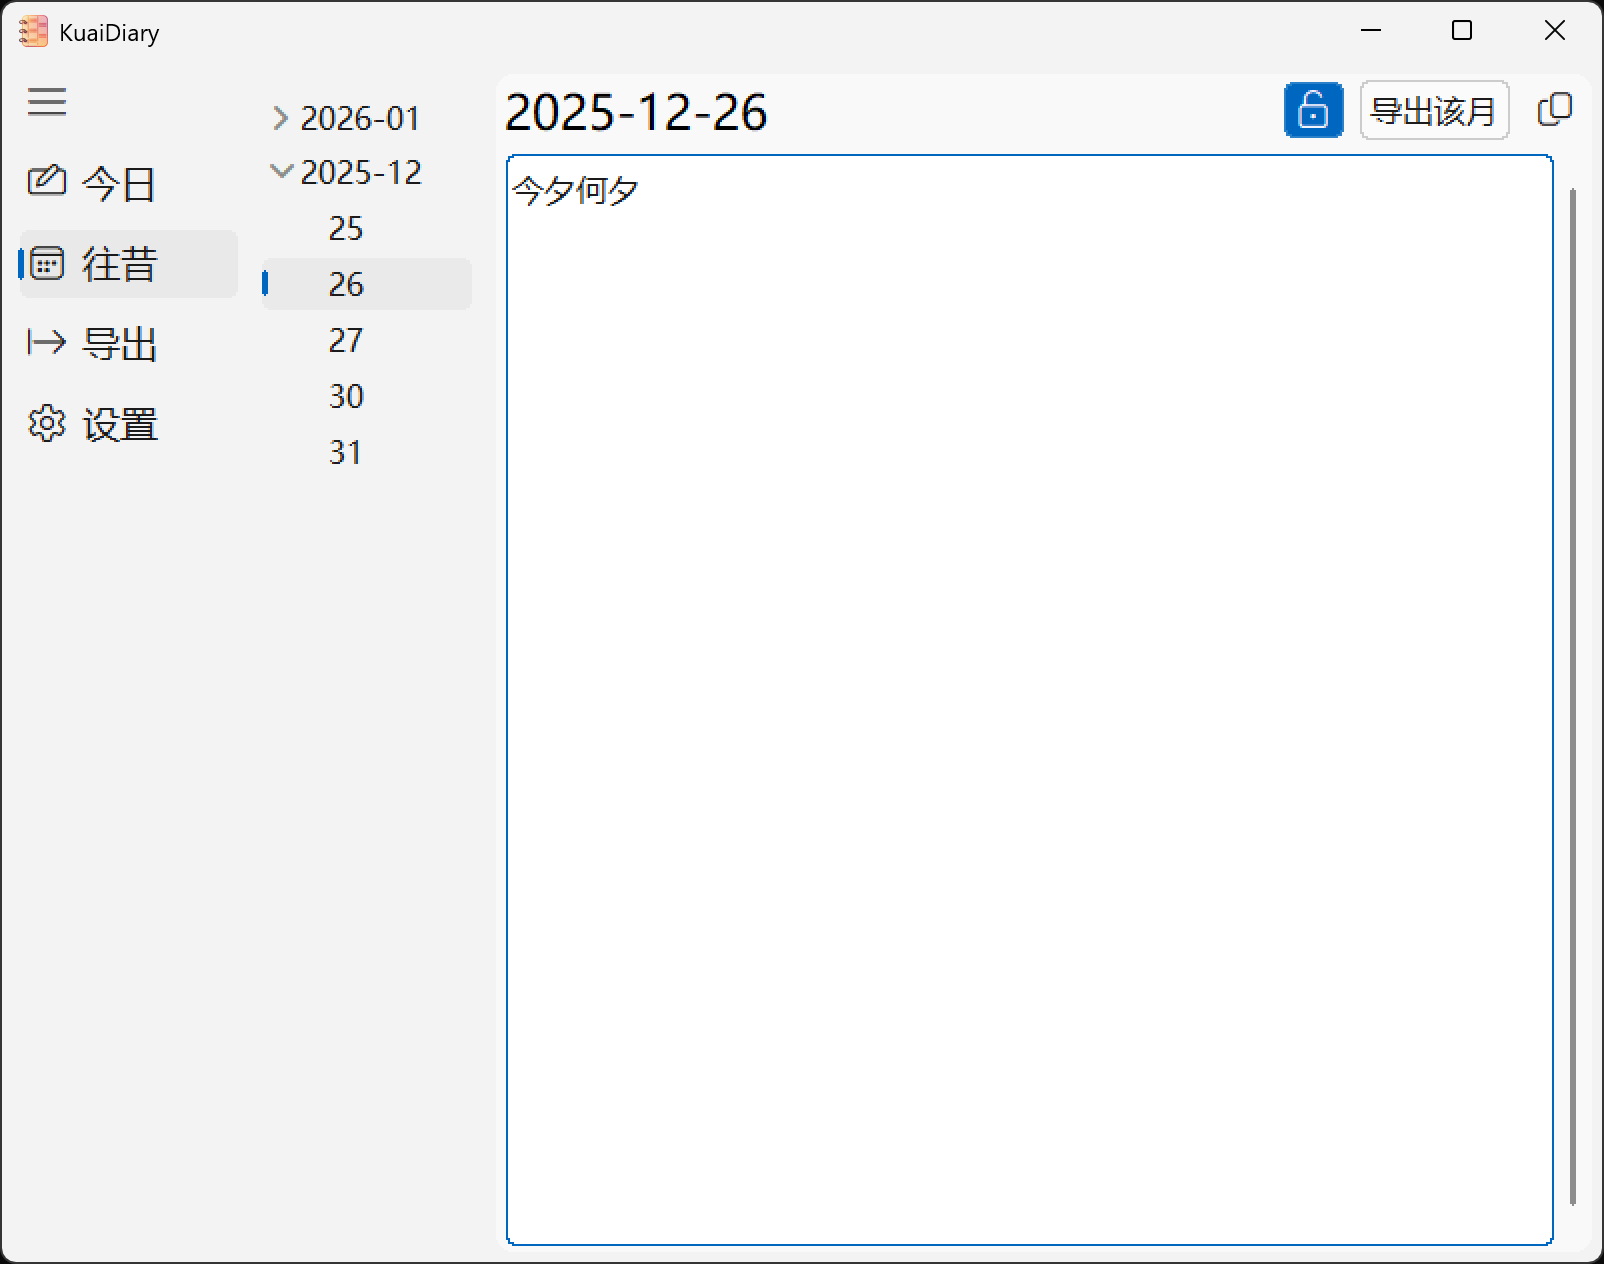
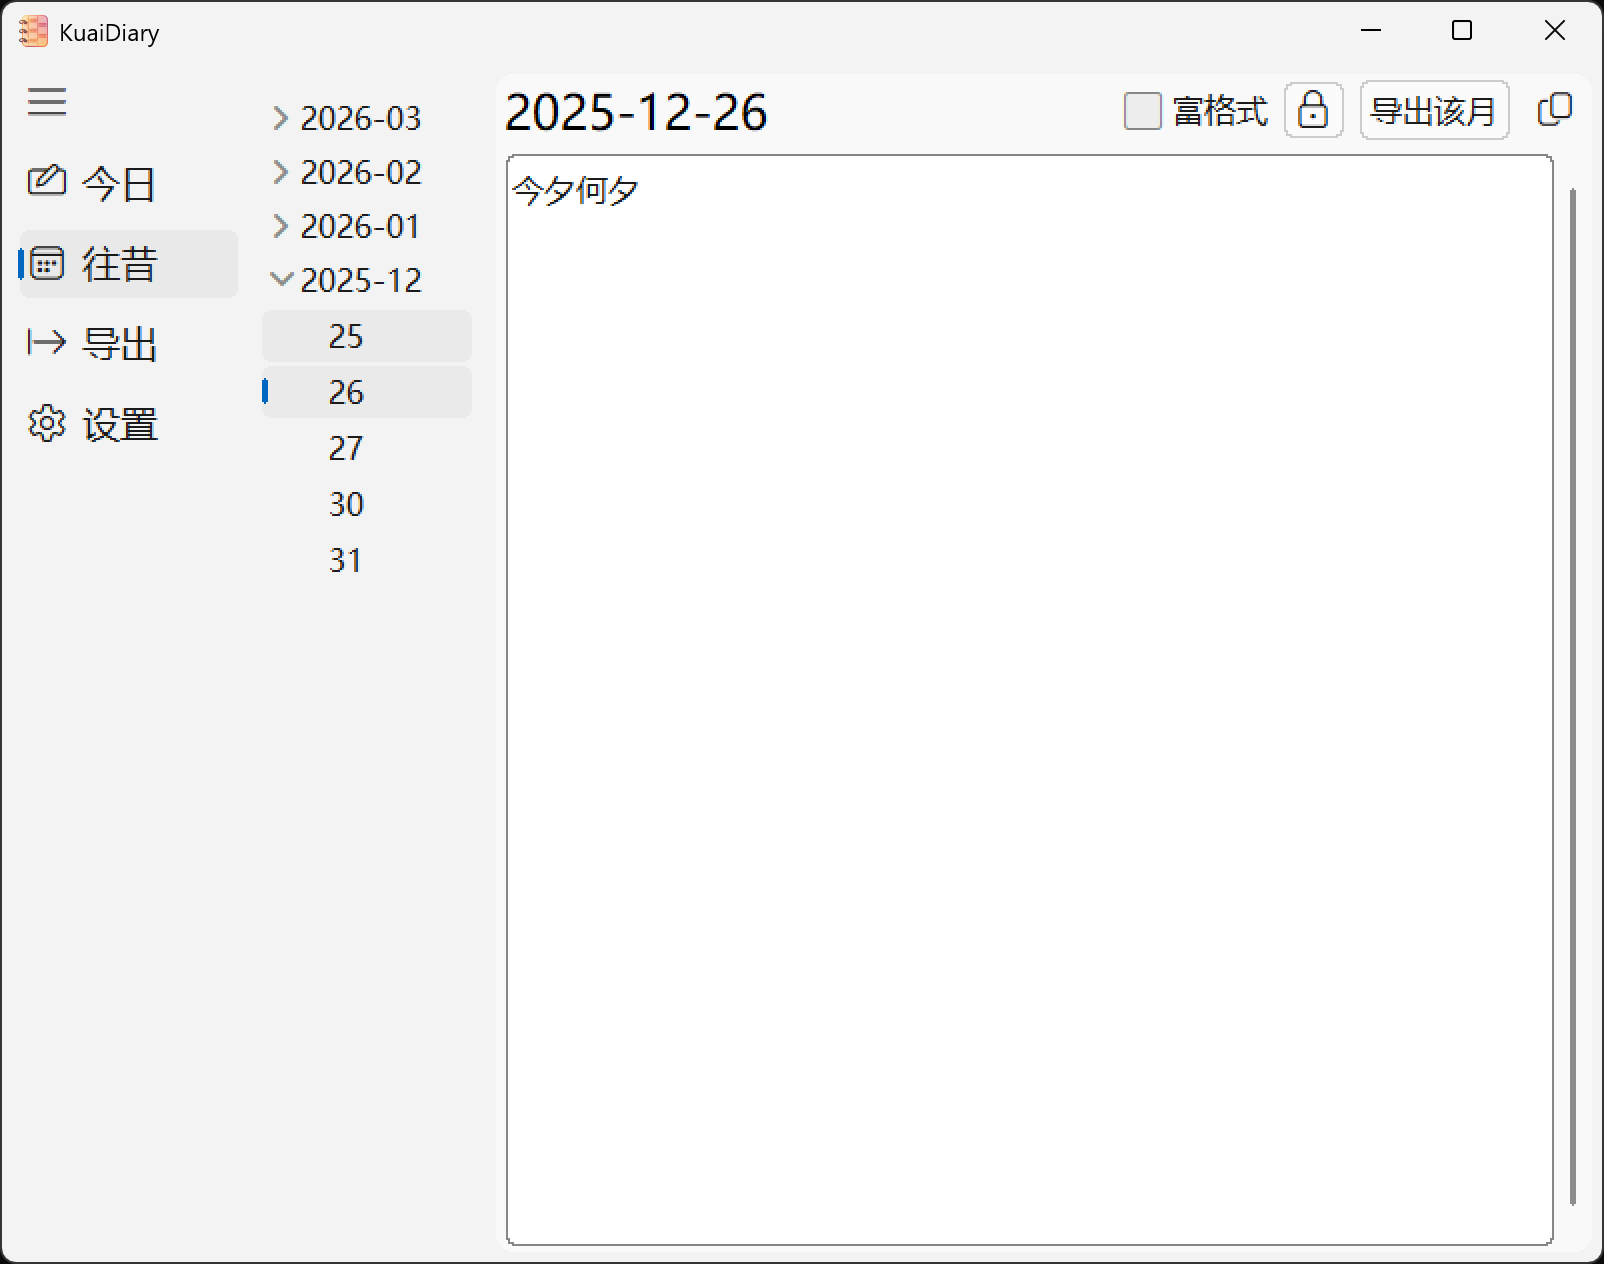
update 2.1.0
支持缩进引述、注释样式
支持超链接
支持部分快捷键

diff --git a/ui/dates.py b/ui/dates.py
@@ -92,6 +92,7 @@ class DatesView(BasicTinUI):
             ('', '\uE8DB', self.format_italic),
             ('', '\uE8DC', self.format_underline),
             ('', '\uEDE0', self.format_strikethrough),
+            ('', '\uE7E6', self.format_highlight),
             ('', '\uE71B', self.format_link),
             ('', '\uE9AA', self.format_quote),
         )
@@ -107,6 +108,7 @@ class DatesView(BasicTinUI):
         reg_ui(self.textbox)
 
         self.bind("<Configure>", self.on_resize)
+        self.textbox_kr_quote_id = None
         self.tog_button_func.off()
 
     def on_resize(self, event):
@@ -188,6 +190,7 @@ class DatesView(BasicTinUI):
         self.textbox.tag_configure(self.TAG_STRIKETHROUGH, overstrike=1)
         self.textbox.tag_configure(self.TAG_HIGHLIGHT, background=self.format_colors['markbg'])
         self.textbox.tag_configure(self.TAG_QUOTE, lmargin1=20, lmargin2=20, foreground=self.format_colors['quotefg'])
+        self.textbox.tag_raise('sel')
 
     def _selection_range(self):
         try:
@@ -281,14 +284,36 @@ class DatesView(BasicTinUI):
             return
         self._toggle_simple_tag(self.TAG_HIGHLIGHT)
     
+    def _line_range(self, index):
+        line_start = self.textbox.index(f'{index} linestart')
+        line_end = self.textbox.index(f'{index} lineend +1c')
+        return line_start, line_end
+
+    def _line_has_quote(self, index):
+        # 用 lineend 位置判断该行是否是 quote 行（空行时也可判断）
+        probe = self.textbox.index(f'{index} lineend')
+        return self.TAG_QUOTE in self.textbox.tag_names(probe)
+
+    def _sync_quote_for_current_line(self, _):
+        insert = self.textbox.index('insert')
+        if not insert.endswith('.1'):
+            # 不是行首，不处理
+            return
+        if self._line_has_quote(insert):
+            line_start, line_end = self._line_range(insert)
+            self.textbox.tag_add(self.TAG_QUOTE, line_start, line_end)
+    
     def format_quote(self, _):
         if self.textbox.cget('state') == 'disabled':
             return
-        start, _ = self._selection_range()
+        start, end = self._selection_range()
         if not start:
             start = self.textbox.index('insert')
-        line_start = self.textbox.index(f'{start} linestart')
-        line_end = self.textbox.index(f'{start} lineend +1c')
+            line_start = self.textbox.index(f'{start} linestart')
+            line_end = self.textbox.index(f'{start} lineend +1c')
+        else:
+            line_start = self.textbox.index(f'{start} linestart')
+            line_end = self.textbox.index(f'{end} lineend +1c')
         if self.TAG_QUOTE in self.textbox.tag_names(start):
             self.textbox.tag_remove(self.TAG_QUOTE, line_start, line_end)
         else:
@@ -331,7 +356,9 @@ class DatesView(BasicTinUI):
         self.format = tag
         if tag:
             self.vp.add_child(self.barbutton, 30, index=1)
+            self.textbox_kr_quote_id = self.textbox.bind('<KeyRelease>', self._sync_quote_for_current_line, True)
         else:
             self.vp.pop_child(1)
             self._BasicTinUI__auto_anchor(self.barbutton, (0,-50))
+            self.textbox.unbind('<KeyRelease>', self.textbox_kr_quote_id)
         self.event_generate("<Configure>", x=0, y=0, width=self.winfo_width(), height=self.winfo_height())

diff --git a/ui/today.py b/ui/today.py
@@ -87,6 +87,7 @@ class TodayView(BasicTinUI):
             self.mdf_check_funcs.off()
 
         self.bind("<Configure>", self.on_resize)
+        self.textbox_kr_quote_id = None
     
     def on_resize(self, event):
         self.root.update_layout(event.x, event.y, event.width-1, event.height-1)
@@ -99,12 +100,14 @@ class TodayView(BasicTinUI):
         self.format = tag
         if tag:
             self.vp.add_child(self.barbutton, 30, index=1)
+            self.textbox_kr_quote_id = self.textbox.bind('<KeyRelease>', self._sync_quote_for_current_line, True)
         else:
             if self.first_mdf_change:
                 self.first_mdf_change = False
                 return
             self.vp.pop_child(1)
             self._BasicTinUI__auto_anchor(self.barbutton, (0,-50))
+            self.textbox.unbind('<KeyRelease>', self.textbox_kr_quote_id)
         self.event_generate("<Configure>", x=0, y=0, width=self.winfo_width(), height=self.winfo_height())
     
     def save_this_month(self, _):
@@ -144,6 +147,7 @@ class TodayView(BasicTinUI):
         self.textbox.tag_configure(self.TAG_STRIKETHROUGH, overstrike=1)
         self.textbox.tag_configure(self.TAG_HIGHLIGHT, background=self.format_colors['markbg'])
         self.textbox.tag_configure(self.TAG_QUOTE, lmargin1=20, lmargin2=20, foreground=self.format_colors['quotefg'])
+        self.textbox.tag_raise('sel')
 
     def _selection_range(self):
         try:
@@ -227,12 +231,34 @@ class TodayView(BasicTinUI):
     def format_highlight(self, _):
         self._toggle_simple_tag(self.TAG_HIGHLIGHT)
     
+    def _line_range(self, index):
+        line_start = self.textbox.index(f'{index} linestart')
+        line_end = self.textbox.index(f'{index} lineend +1c')
+        return line_start, line_end
+
+    def _line_has_quote(self, index):
+        # 用 lineend 位置判断该行是否是 quote 行（空行时也可判断）
+        probe = self.textbox.index(f'{index} lineend')
+        return self.TAG_QUOTE in self.textbox.tag_names(probe)
+
+    def _sync_quote_for_current_line(self, _):
+        insert = self.textbox.index('insert')
+        if not insert.endswith('.1'):
+            # 不是行首，不处理
+            return
+        if self._line_has_quote(insert):
+            line_start, line_end = self._line_range(insert)
+            self.textbox.tag_add(self.TAG_QUOTE, line_start, line_end)
+    
     def format_quote(self, _):
-        start, _ = self._selection_range()
+        start, end = self._selection_range()
         if not start:
             start = self.textbox.index('insert')
-        line_start = self.textbox.index(f'{start} linestart')
-        line_end = self.textbox.index(f'{start} lineend +1c')
+            line_start = self.textbox.index(f'{start} linestart')
+            line_end = self.textbox.index(f'{start} lineend +1c')
+        else:
+            line_start = self.textbox.index(f'{start} linestart')
+            line_end = self.textbox.index(f'{end} lineend +1c')
         if self.TAG_QUOTE in self.textbox.tag_names(start):
             self.textbox.tag_remove(self.TAG_QUOTE, line_start, line_end)
         else:

diff --git a/data.py b/data.py
@@ -7,7 +7,7 @@ from tkinter import Tk
 from tinui.theme.tinuilight import TinUILight
 from tinui.theme.tinuidark import TinUIDark
 
-version:str = "2.0.0" # 版本号
+version:str = "2.1.0" # 版本号
 
 root:Tk | None = None # 主窗口
 

diff --git a/README.md b/README.md
@@ -8,9 +8,16 @@
 ## 特性
 
 - 小、轻、快
-- 日记以文本模式存储在`./datas`下，方便自行管理
+
+- 日记默认存储在`./datas`下，方便自行管理
+
 - 批量、自定义导出
+
 - 无感编辑，无需在意日记的新建与修改后的保存操作
+
+- 基础富文本格式支持
+
+  > 超链接需要通过`Control`和鼠标左键单击打开。
 
 ## 使用说明
 
@@ -31,6 +38,18 @@
 过往日记满载着繁多回忆，不应随意更改，如果确实需要修改，请点击🔒图标解锁修改功能，可随时关闭修改功能。
 
 右上角可以导出所选日记所在月份所有日记到指定文本文件里，点击按钮右侧的复制图标，可以将该月日记文本加载到剪切板中。
+
+### 批量导出
+
+选择合适的起止日期，进行批量导出。
+
+### 快捷键
+
+富文本编辑时：
+
+- `Ctrl+B`粗体
+- `Ctrl+I`斜体
+- `Ctrl+U`下划线
 
 ## 安装
 
